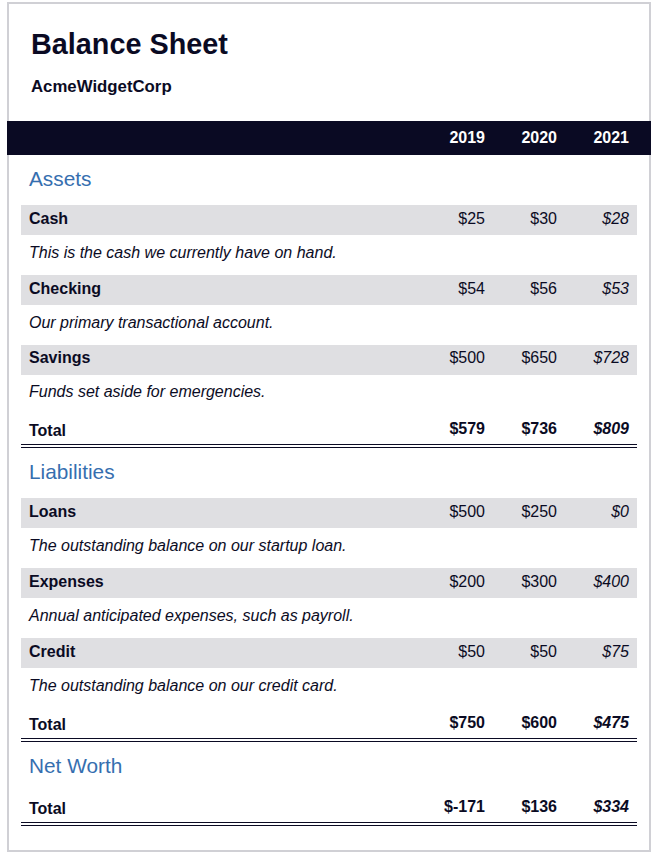
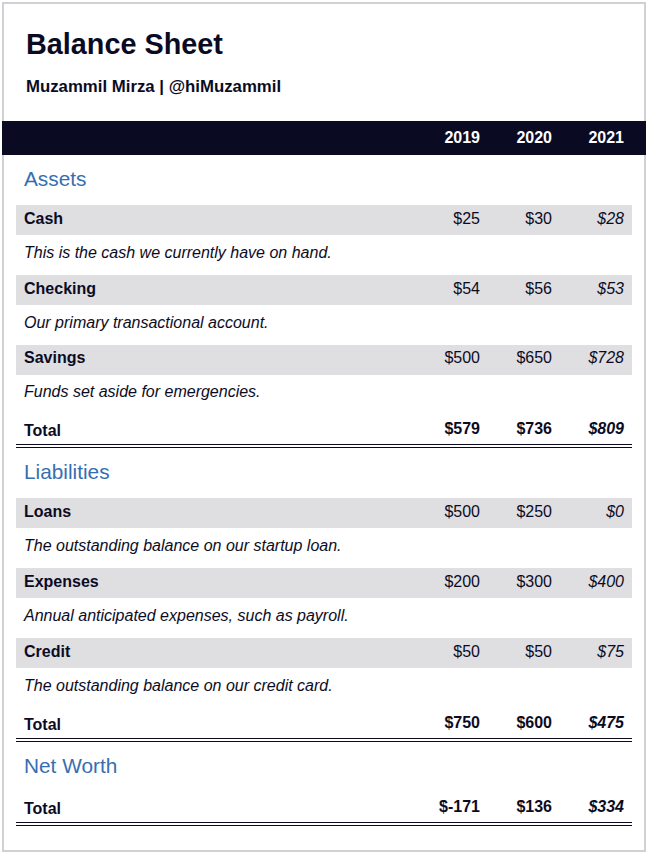
Update ScreenShot file | index.html

diff --git a/index.html b/index.html
@@ -11,7 +11,7 @@
       <section>
         <h1>
           <span class="flex">
-            <span>AcmeWidgetCorp</span>
+            <span>Muzammil Mirza | @hiMuzammil</span>
             <span>Balance Sheet</span>
           </span>
         </h1>
